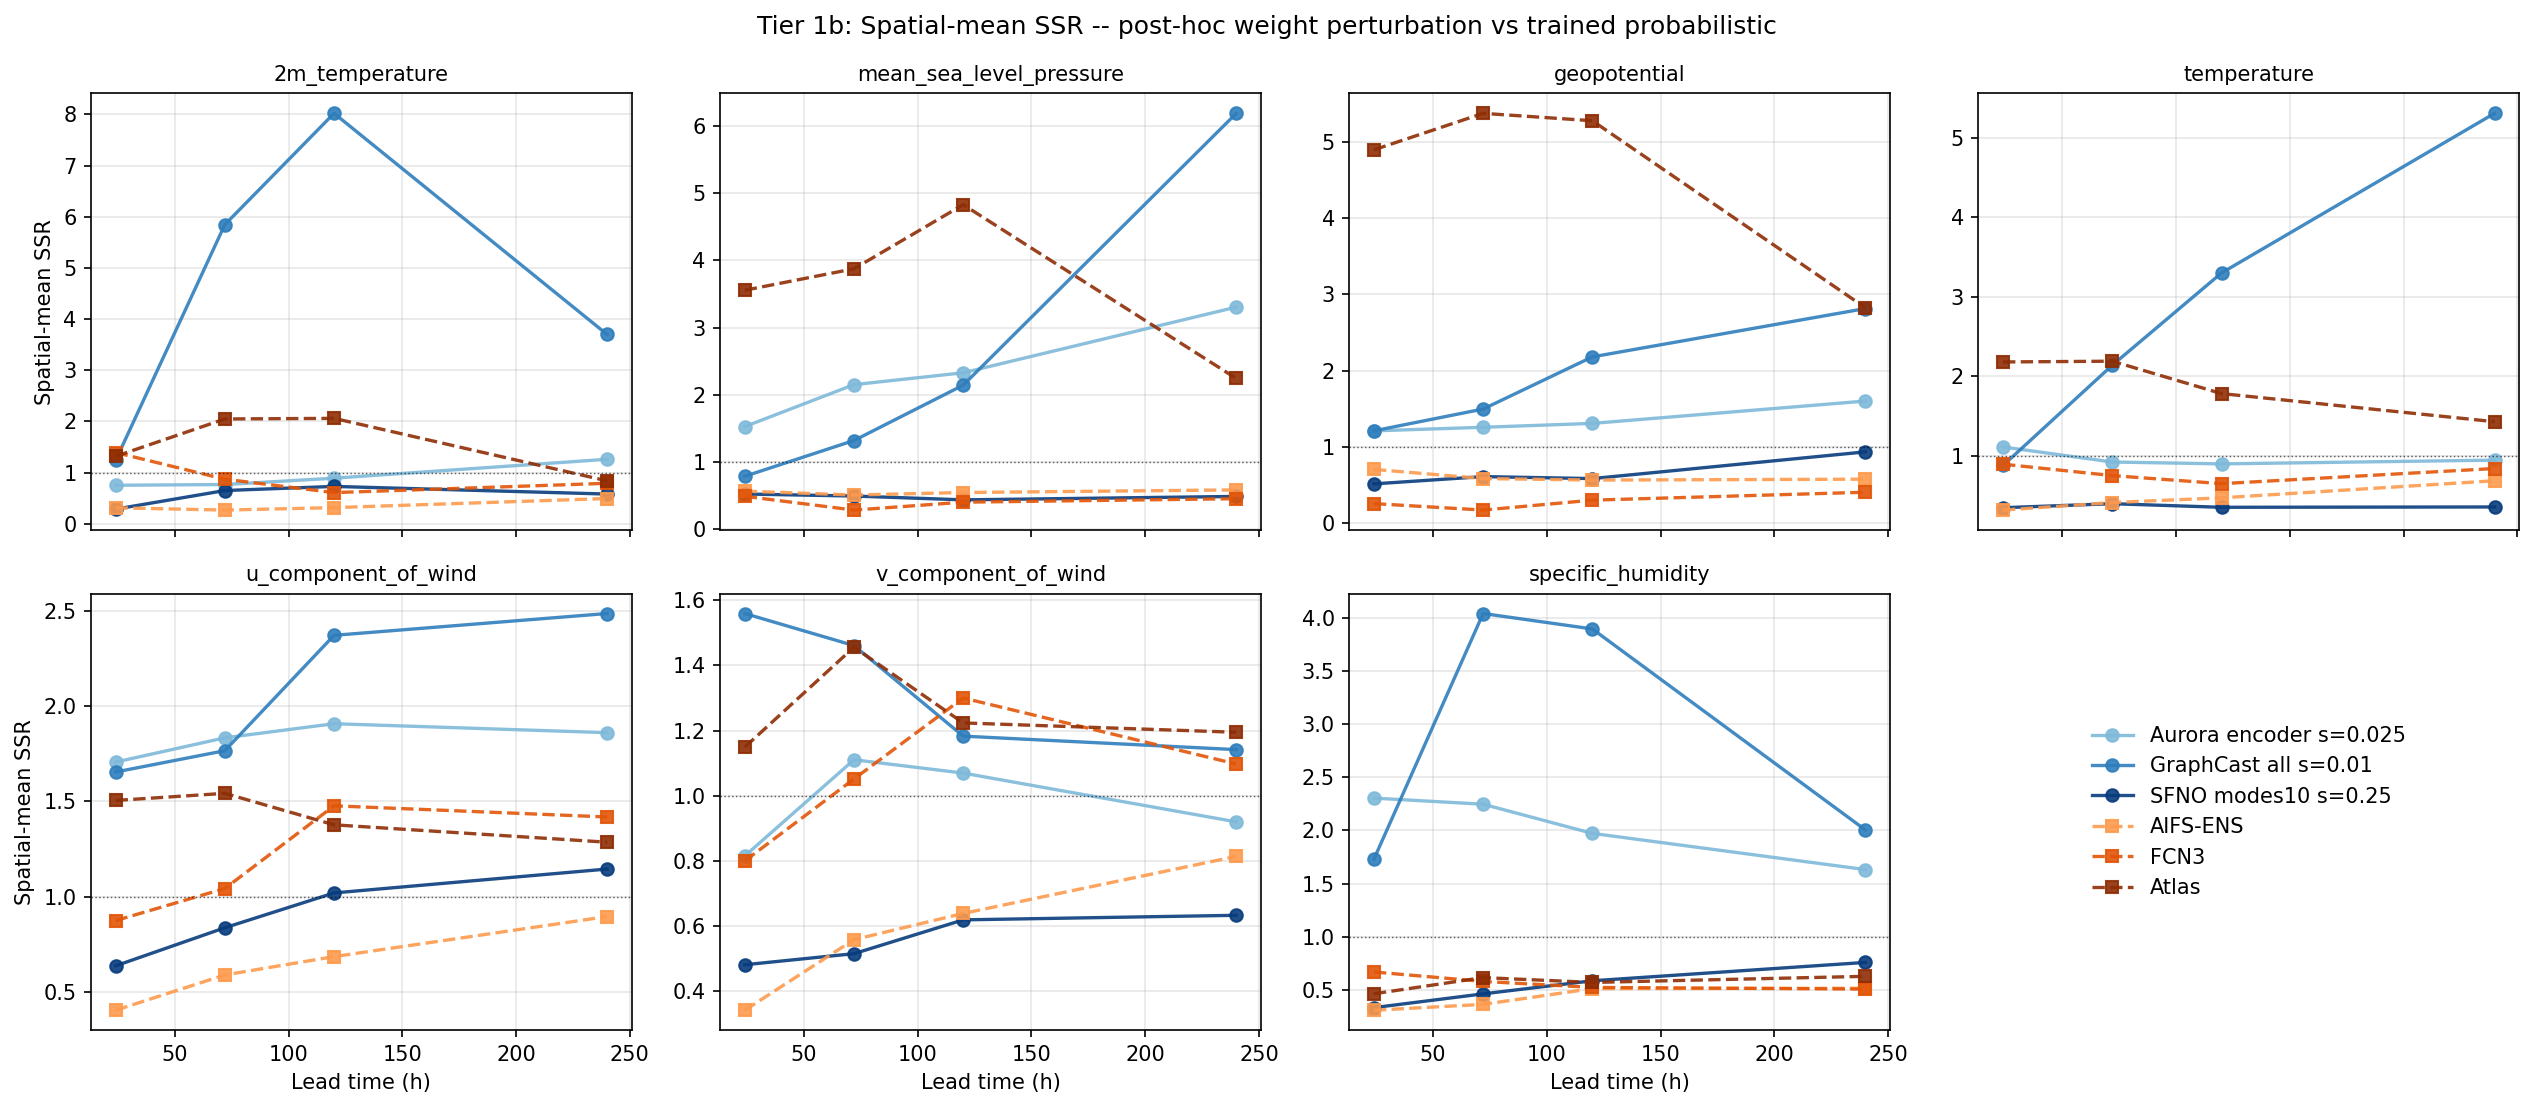
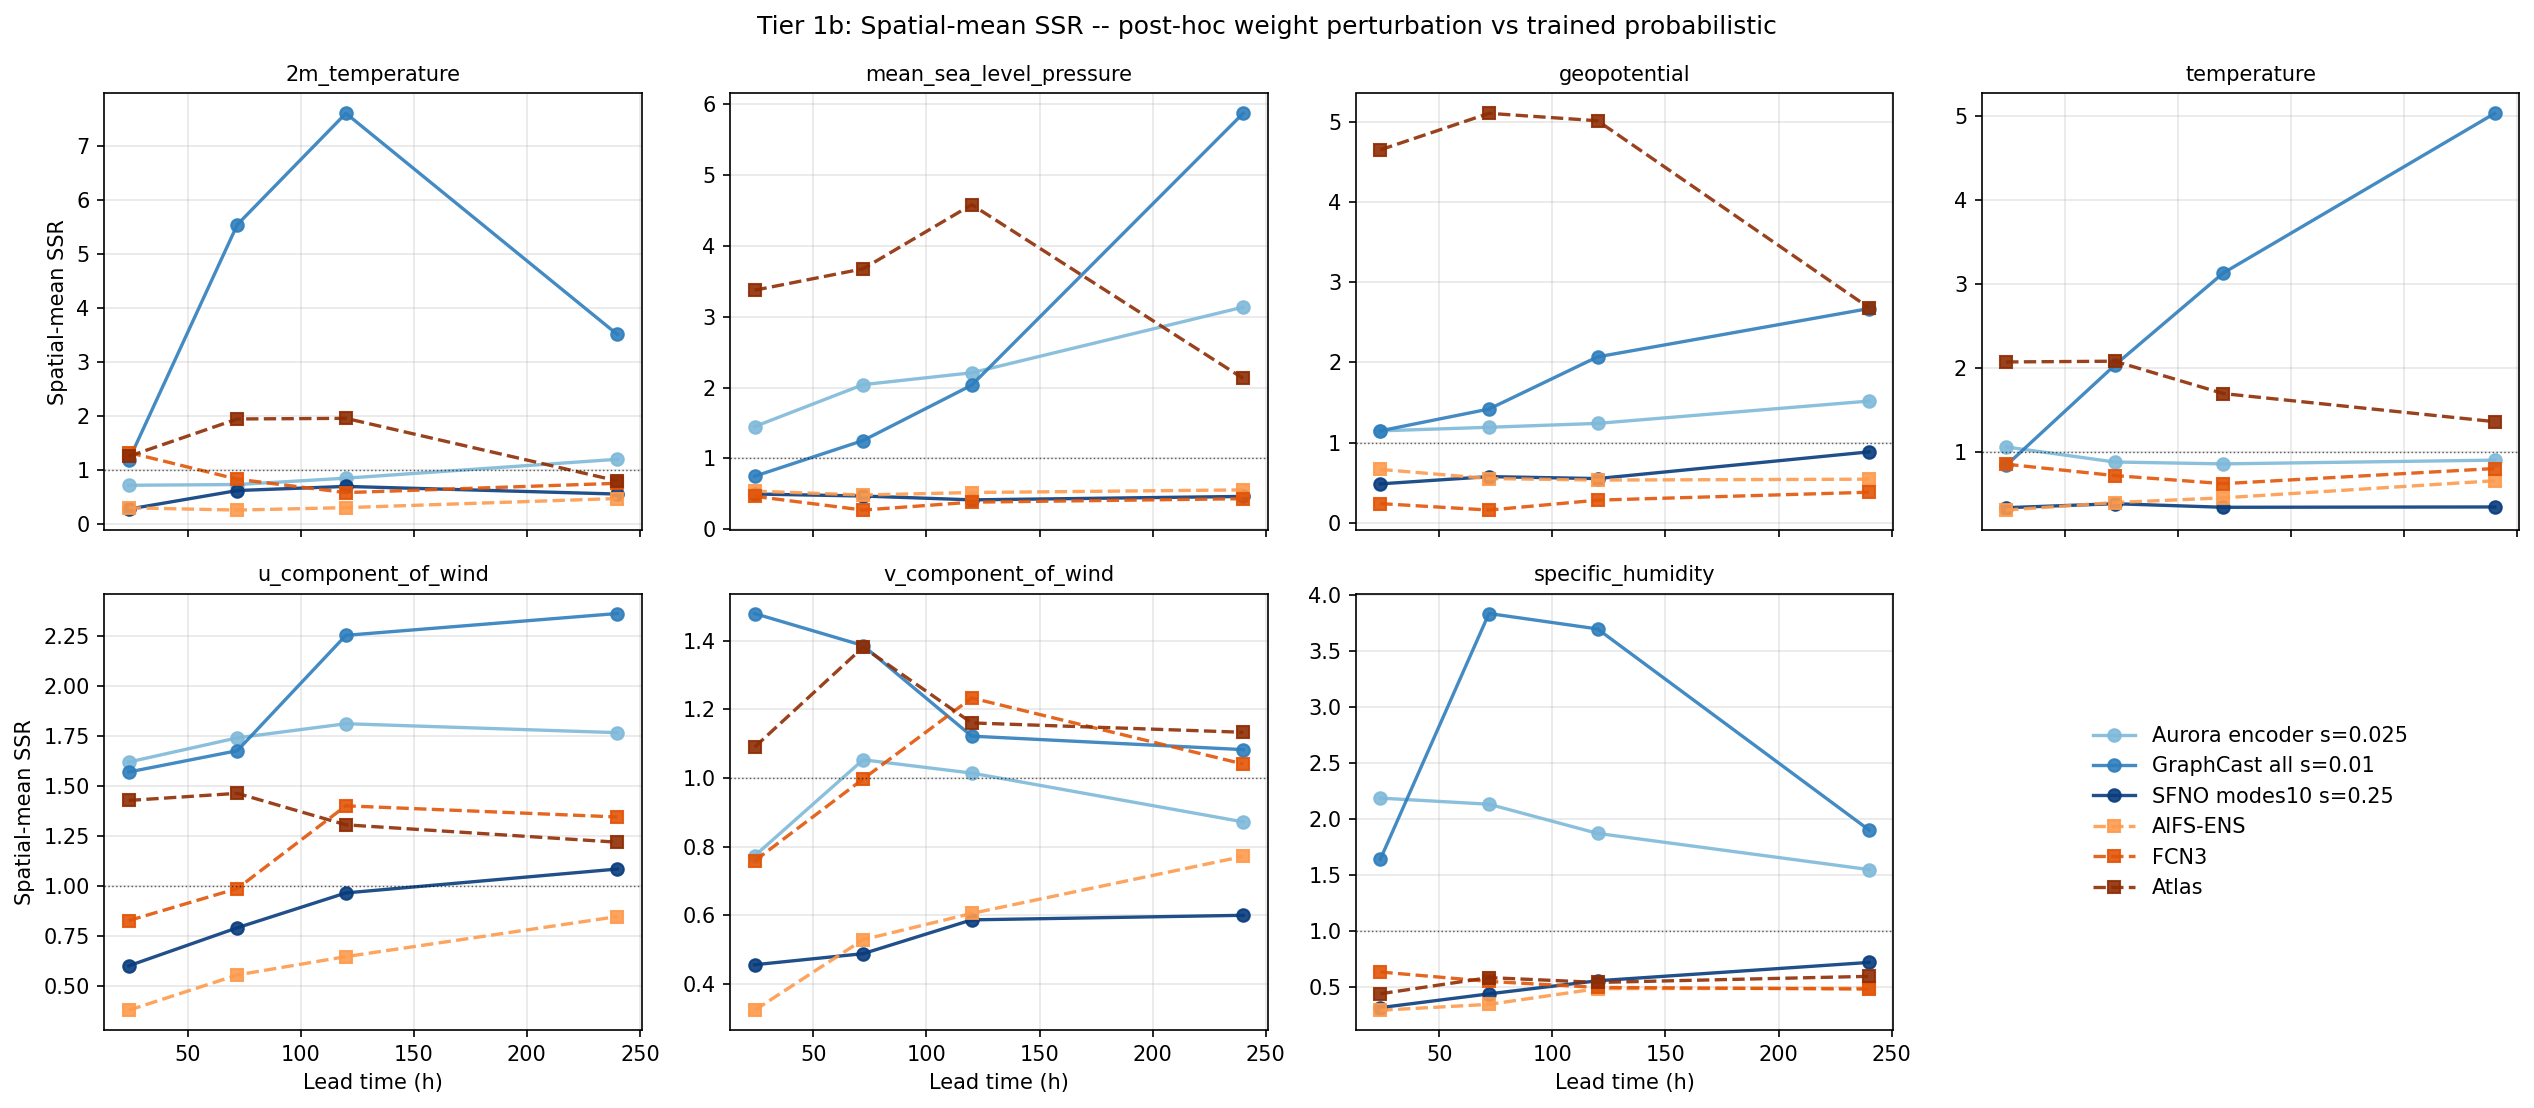
Fix spatial-mean SSR Fortin factor: (M+1)/M with ddof=1 variance, not (M+1)/(M-1)
The double-counted M-1 adjustment inflated every spatial-mean SSR by
sqrt(10/9) (~5.4% at M=10). Since M=10 uniformly, all 41 affected CSVs on
$STORE were rescaled exactly post hoc (spread/ssr x sqrt(9/10), error
unchanged) via the new one-shot tools/rescale_ssr_fortinfix.py; originals
archived as *_pre_fortinfix_2026-06-13*. Both SSR figures regenerated from
the rescaled CSVs (job 2525600).

diff --git a/tools/rescale_ssr_fortinfix.py b/tools/rescale_ssr_fortinfix.py
@@ -1,0 +1,79 @@
+"""One-shot remediation for the spatial-mean SSR Fortin-factor bug (2026-06-13).
+
+tools/spatial_mean_ssr.py applied (M+1)/(M-1) to the ddof=1 sample variance;
+the correct Fortin et al. 2014 factor for ddof=1 is (M+1)/M. Both factors are
+constant multipliers on spread^2 for fixed M, so every affected CSV can be
+corrected EXACTLY post hoc: spread and ssr scale by sqrt((M-1)/M) (~0.9487 at
+M=10), error is unchanged. This avoids re-reading the forecast zarrs entirely.
+
+Exactness assumption: M was identical for every (init, var, lead, level) cell
+aggregated into a row. True by construction here (all runs are 10-member
+ensembles); the script aborts on any row with n_members != 10.
+
+For each CSV: archives the original, then rewrites spread/ssr in place.
+Archive location: <stem>_pre_fortinfix_2026-06-13.csv alongside, EXCEPT in
+diagnostics/sfno_phase6_ssr where tools/plot_sfno_phase6_ssr.py globs *.csv,
+so archives go to a pre_fortinfix_2026-06-13/ subdirectory instead.
+Idempotent: files whose archive already exists are skipped. Stdlib-only.
+"""
+
+import csv
+import glob
+import math
+import os
+import shutil
+import sys
+
+BASE = "/capstor/store/cscs/mch/s83/sadamov/ai-models-ensembles"
+SUFFIX = "_pre_fortinfix_2026-06-13"
+FACTOR = math.sqrt(9.0 / 10.0)
+
+
+def targets() -> list[str]:
+    csvs = sorted(glob.glob(BASE + "/baselines/*/spatial_mean_ssr/spatial_ssr.csv"))
+    csvs += sorted(glob.glob(BASE + "/ablation/*/*/eval/*/spatial_mean_ssr/spatial_ssr.csv"))
+    csvs += sorted(glob.glob(BASE + "/diagnostics/sfno_phase6_ssr/*.csv"))
+    return [c for c in csvs if SUFFIX not in c]
+
+
+def archive_path(path: str) -> str:
+    d, name = os.path.split(path)
+    if d.endswith("/diagnostics/sfno_phase6_ssr"):
+        return os.path.join(d, "pre_fortinfix_2026-06-13", name)
+    return path[: -len(".csv")] + SUFFIX + ".csv"
+
+
+def main() -> int:
+    done = skipped = 0
+    for path in targets():
+        archive = archive_path(path)
+        if os.path.exists(archive):
+            print(f"SKIP (already archived): {path}")
+            skipped += 1
+            continue
+        with open(path, newline="") as f:
+            rows = list(csv.DictReader(f))
+            fieldnames = list(rows[0].keys())
+        bad = [r for r in rows if int(r["n_members"]) != 10]
+        if bad:
+            print(f"ABORT {path}: rows with n_members != 10: {bad}")
+            return 1
+        os.makedirs(os.path.dirname(archive), exist_ok=True)
+        shutil.copy2(path, archive)
+        for r in rows:
+            for col in ("spread", "ssr"):
+                # ssr is empty when error^2 was 0 (pandas writes NaN as '')
+                if r[col] not in ("", "nan"):
+                    r[col] = repr(float(r[col]) * FACTOR)
+        with open(path, "w", newline="") as f:
+            w = csv.DictWriter(f, fieldnames=fieldnames)
+            w.writeheader()
+            w.writerows(rows)
+        print(f"FIXED {path} ({len(rows)} rows, x{FACTOR:.6f})")
+        done += 1
+    print(f"\n{done} rescaled, {skipped} skipped.")
+    return 0
+
+
+if __name__ == "__main__":
+    sys.exit(main())

diff --git a/tools/spatial_mean_ssr.py b/tools/spatial_mean_ssr.py
@@ -17,7 +17,8 @@ SSR definition (spatial-mean version):
     For each (init, variable, lead, level):
       S_n = sum_ij cos(lat_i) * field_n_ij / sum_ij cos(lat_i)   for member n
       T   = sum_ij cos(lat_i) * truth_ij    / sum_ij cos(lat_i)
-      spread^2  = ((M+1)/(M-1)) * var_n(S_n)
+      spread^2  = ((M+1)/M) * var_n(S_n)     [var_n = ddof=1 sample variance;
+                                              Fortin et al. 2014 finite-M factor]
       error^2   = ( mean_n(S_n) - T )^2
 
     Aggregating across inits:
@@ -105,7 +106,11 @@ def _compute_for_init(
         return None
 
     var_M = float(np.var(s_vals, ddof=1))  # unbiased sample variance
-    spread2 = var_M * (M + 1) / (M - 1)  # SSR convention: unbiased variance
+    # Fortin et al. 2014 finite-M factor for ddof=1 variance is (M+1)/M, NOT
+    # (M+1)/(M-1) (that factor pairs with the ddof=0 variance). The earlier
+    # (M+1)/(M-1) double-counted the M-1 adjustment and inflated SSR by
+    # sqrt(M/(M-1)) (~5.4% at M=10). Fixed 2026-06-13.
+    spread2 = var_M * (M + 1) / M
     err2 = float((s_vals.mean() - t_scalar) ** 2)
     return {"spread2": spread2, "error2": err2, "n_members": M}
 